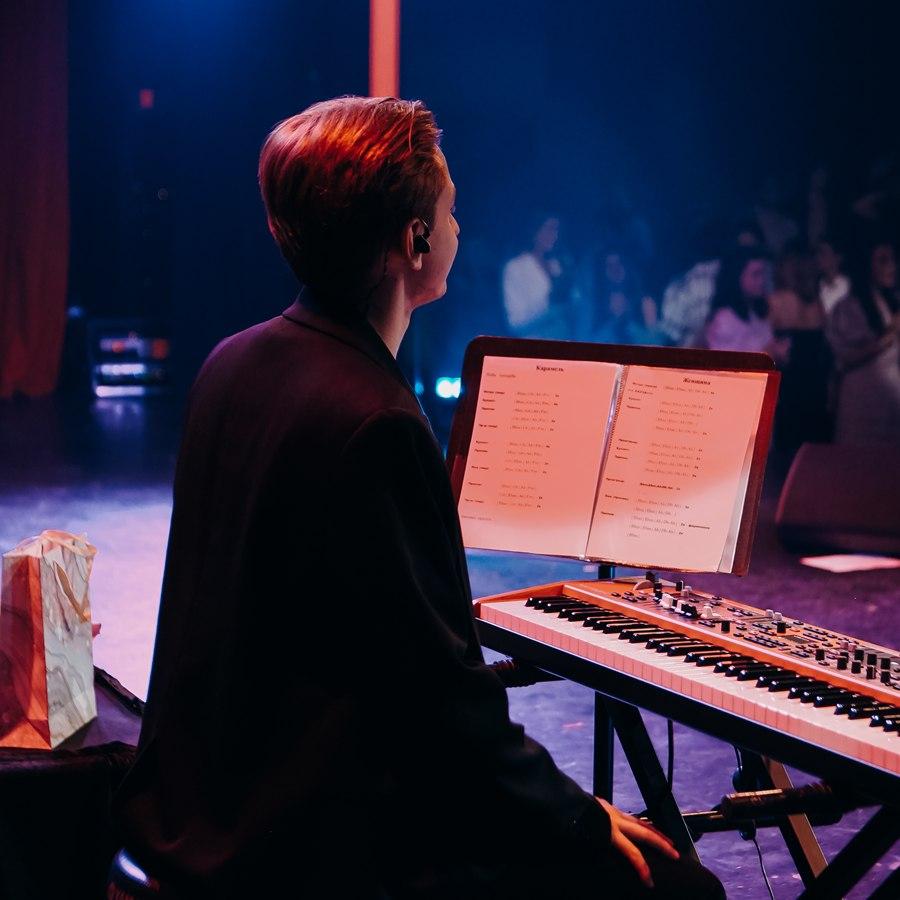
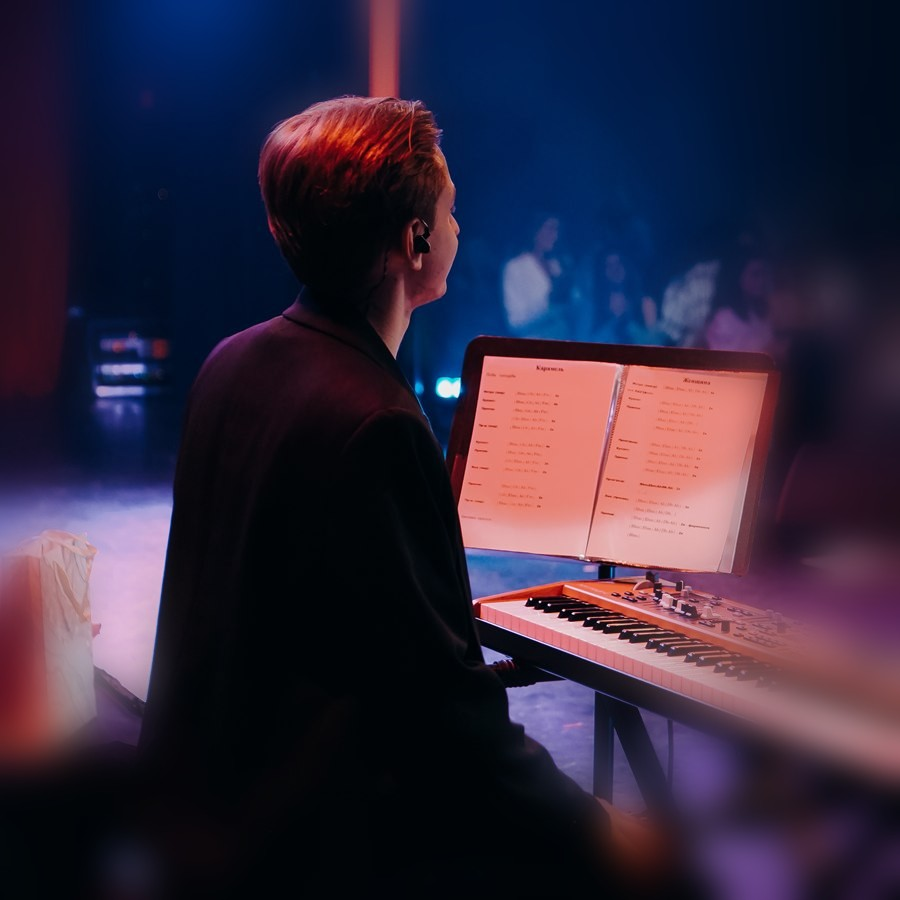
Add radial edge blur to og-preview.jpg

diff --git a/index.html b/index.html
@@ -9,7 +9,7 @@
   <meta property="og:description" content="Живая музыка на события, караоке под рояль.">
   <meta property="og:type" content="website">
   <meta property="og:url" content="https://nbalykin.github.io/portfolio/">
-  <meta property="og:image" content="https://nbalykin.github.io/portfolio/assets/images/og-preview.jpg">
+  <meta property="og:image" content="https://nbalykin.github.io/portfolio/assets/images/og-preview.jpg?v=2">
   <meta property="og:image:type" content="image/jpeg">
   <meta property="og:image:width" content="900">
   <meta property="og:image:height" content="900">
